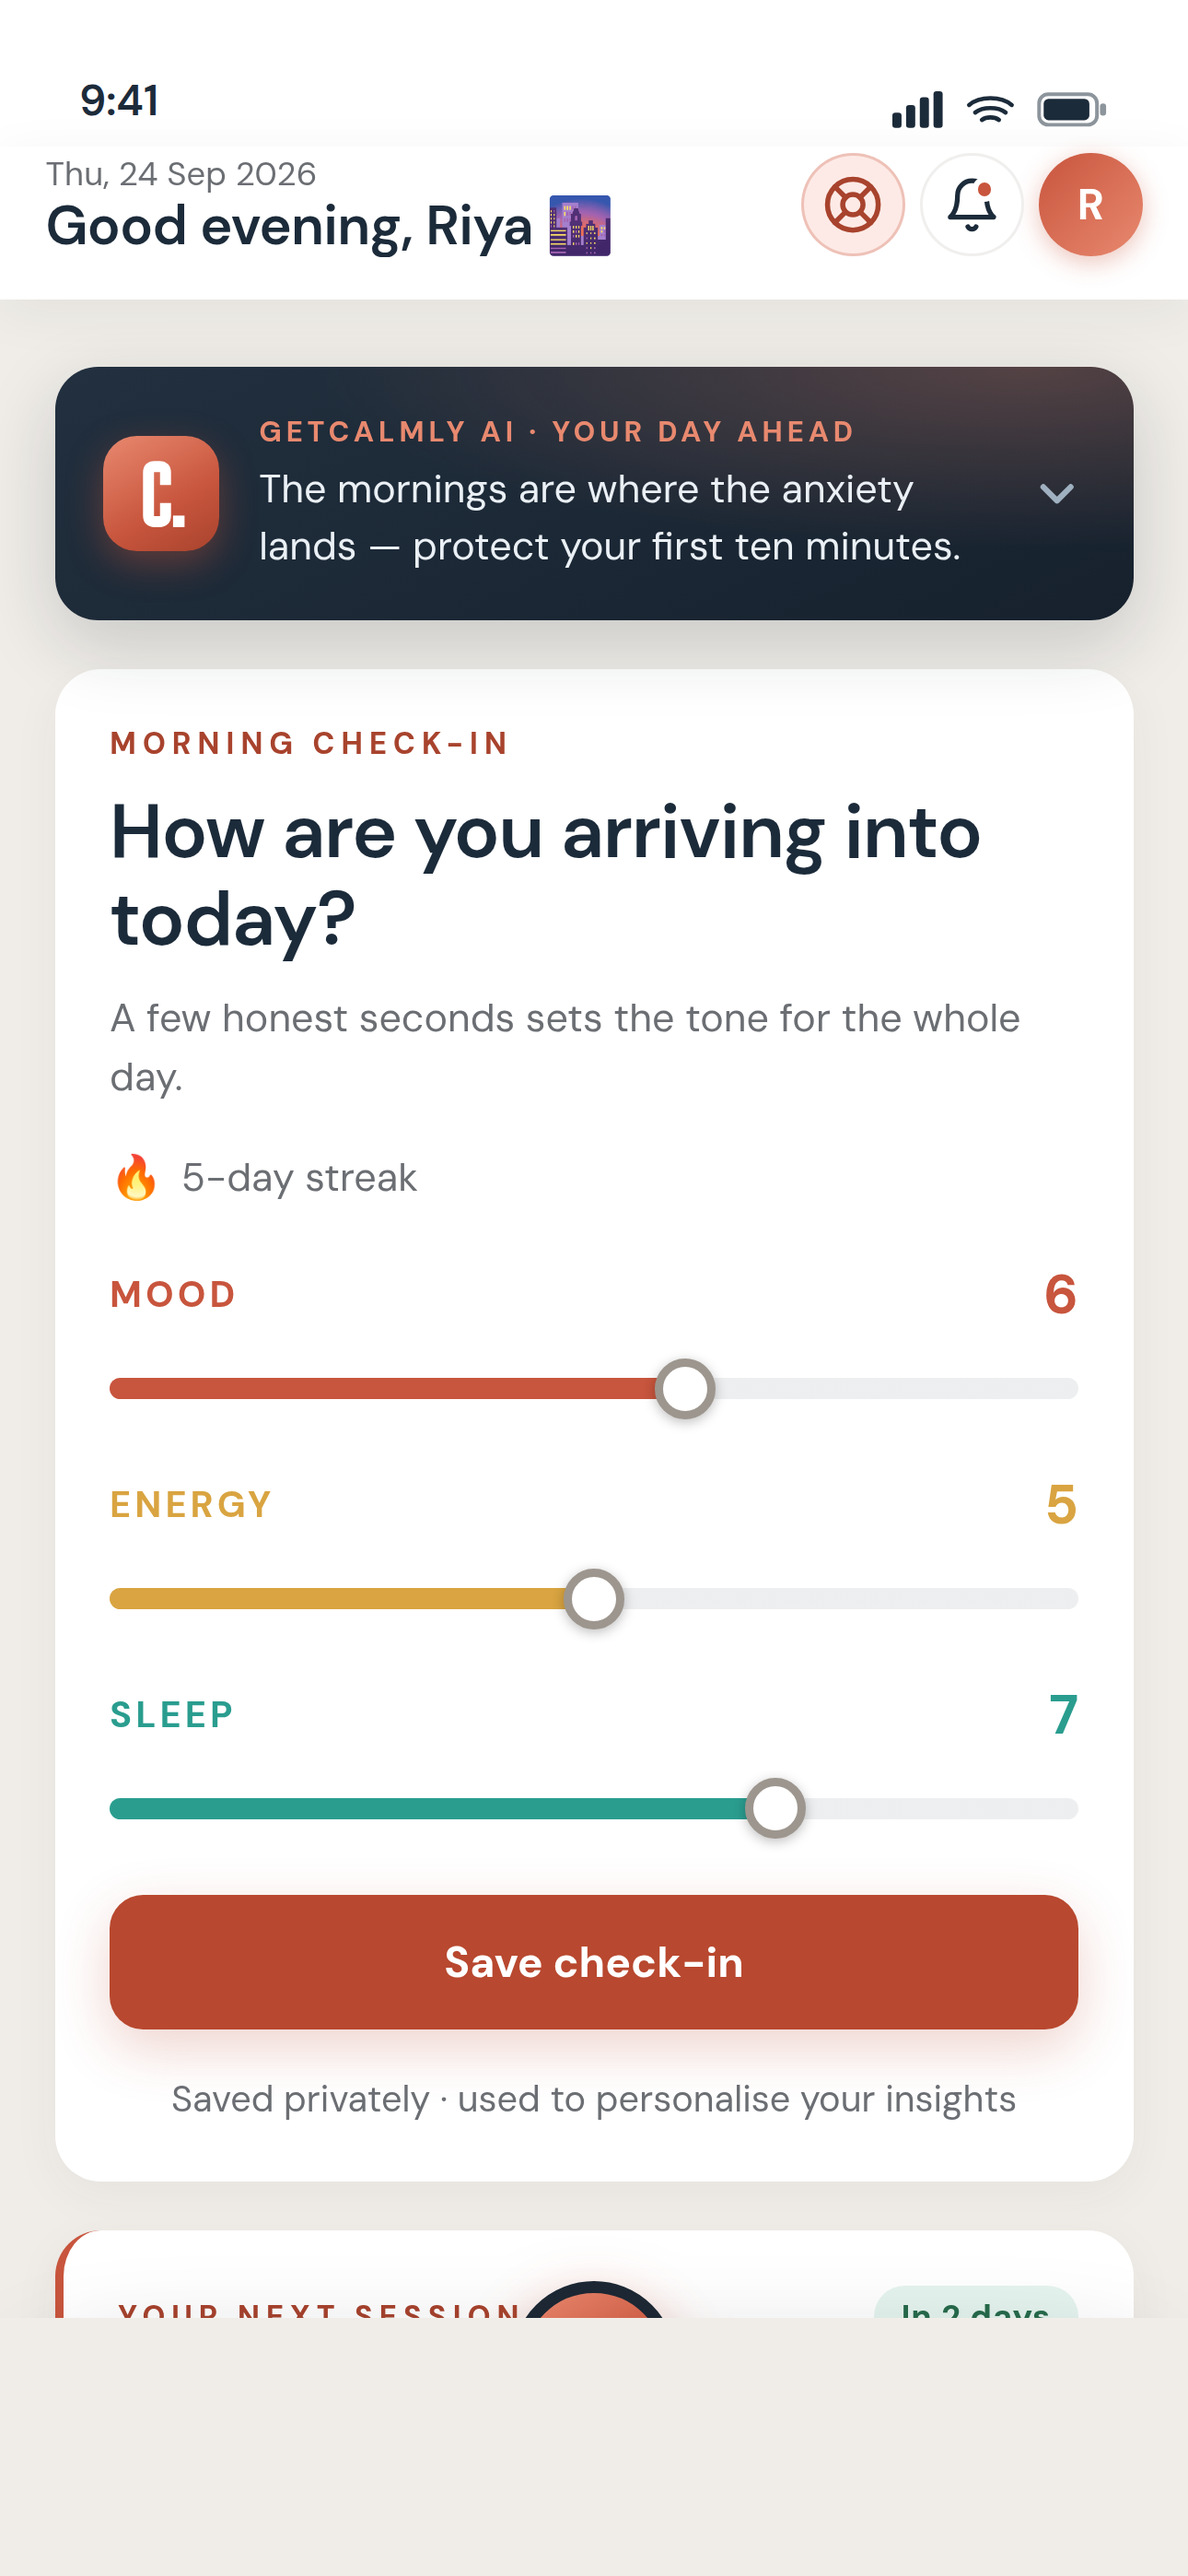
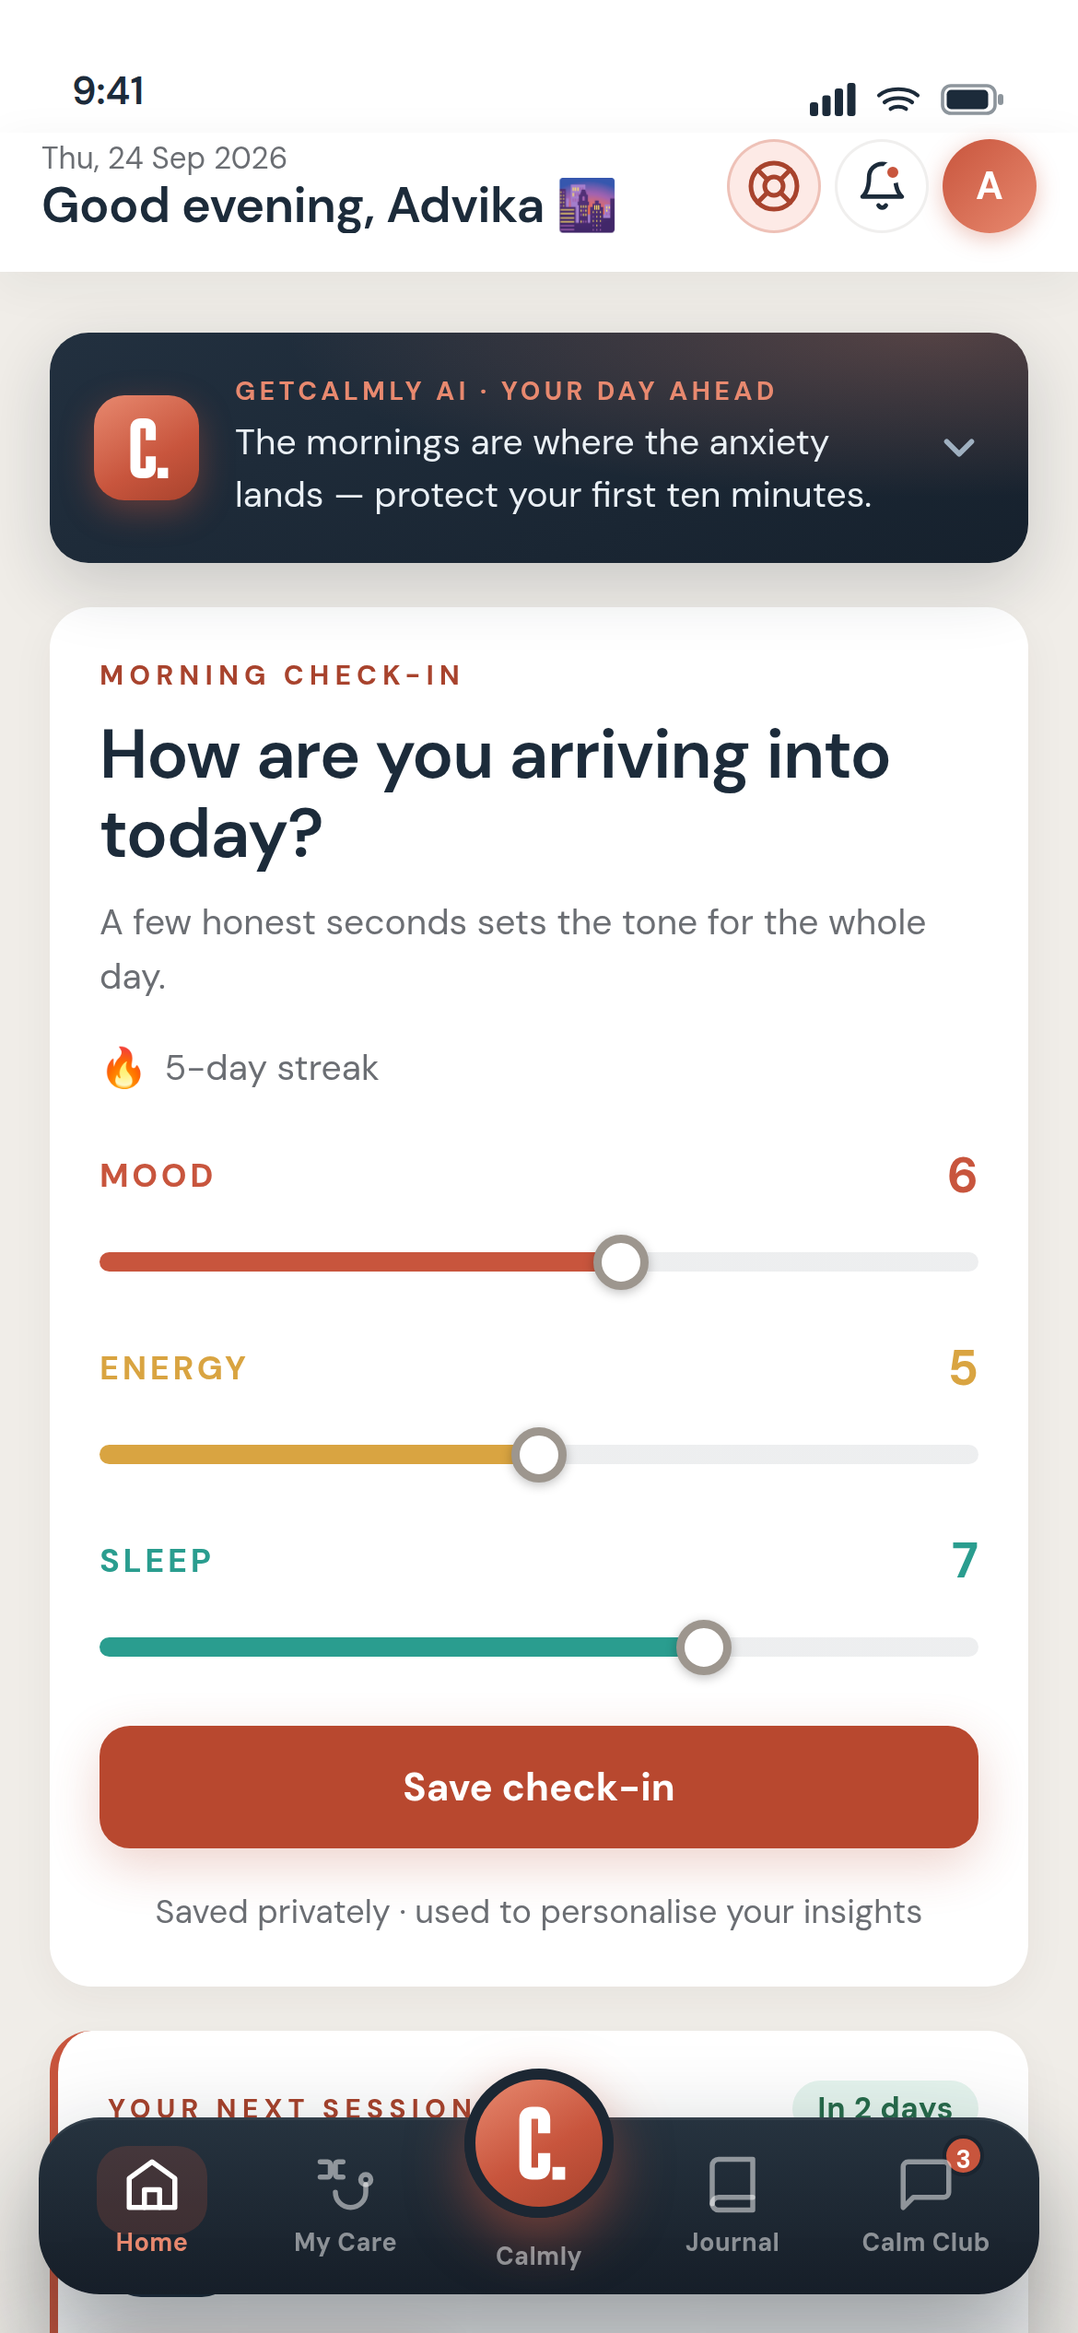
Mockups: name member Advika Rao, show mobile nav; fix features copy
- Both marketing screenshots now use one member name, Advika Rao, on the
  desktop dashboard and the mobile home (was Priya / Riya).
- Mobile home shot now includes the floating bottom tab bar
  (Home · My Care · getCalmly AI · Journal · Calm Club), matching the app.
- features page: "talk to Calm" → "talk to getCalmly AI".

Claude-Session: https://claude.ai/code/session_01E8Spwuj17DntgraM9eiTuW

diff --git a/src/app/(public)/features/page.tsx b/src/app/(public)/features/page.tsx
@@ -290,7 +290,7 @@ export default function FeaturesPage() {
               Your care, in your pocket.
             </h2>
             <p style={{ fontSize: 16, color: 'rgba(255,255,255,.66)', lineHeight: 1.7, marginBottom: 22, fontWeight: 300 }}>
-              The app is where your care lives day to day. Check in, talk to Calm, journal, and join sessions, all in one place. And because it is with you, the gentle reminders and personalised nudges arrive exactly when they help most.
+              The app is where your care lives day to day. Check in, talk to getCalmly AI, journal, and join sessions, all in one place. And because it is with you, the gentle reminders and personalised nudges arrive exactly when they help most.
             </p>
             <div style={{ display: 'flex', flexDirection: 'column', gap: 10, marginBottom: 26 }}>
               {['Daily check-ins that take seconds', 'getCalmly AI a tap away, whenever you need it', 'Timely nudges, personalised to your patterns', 'Join sessions and see your progress'].map((t) => (
